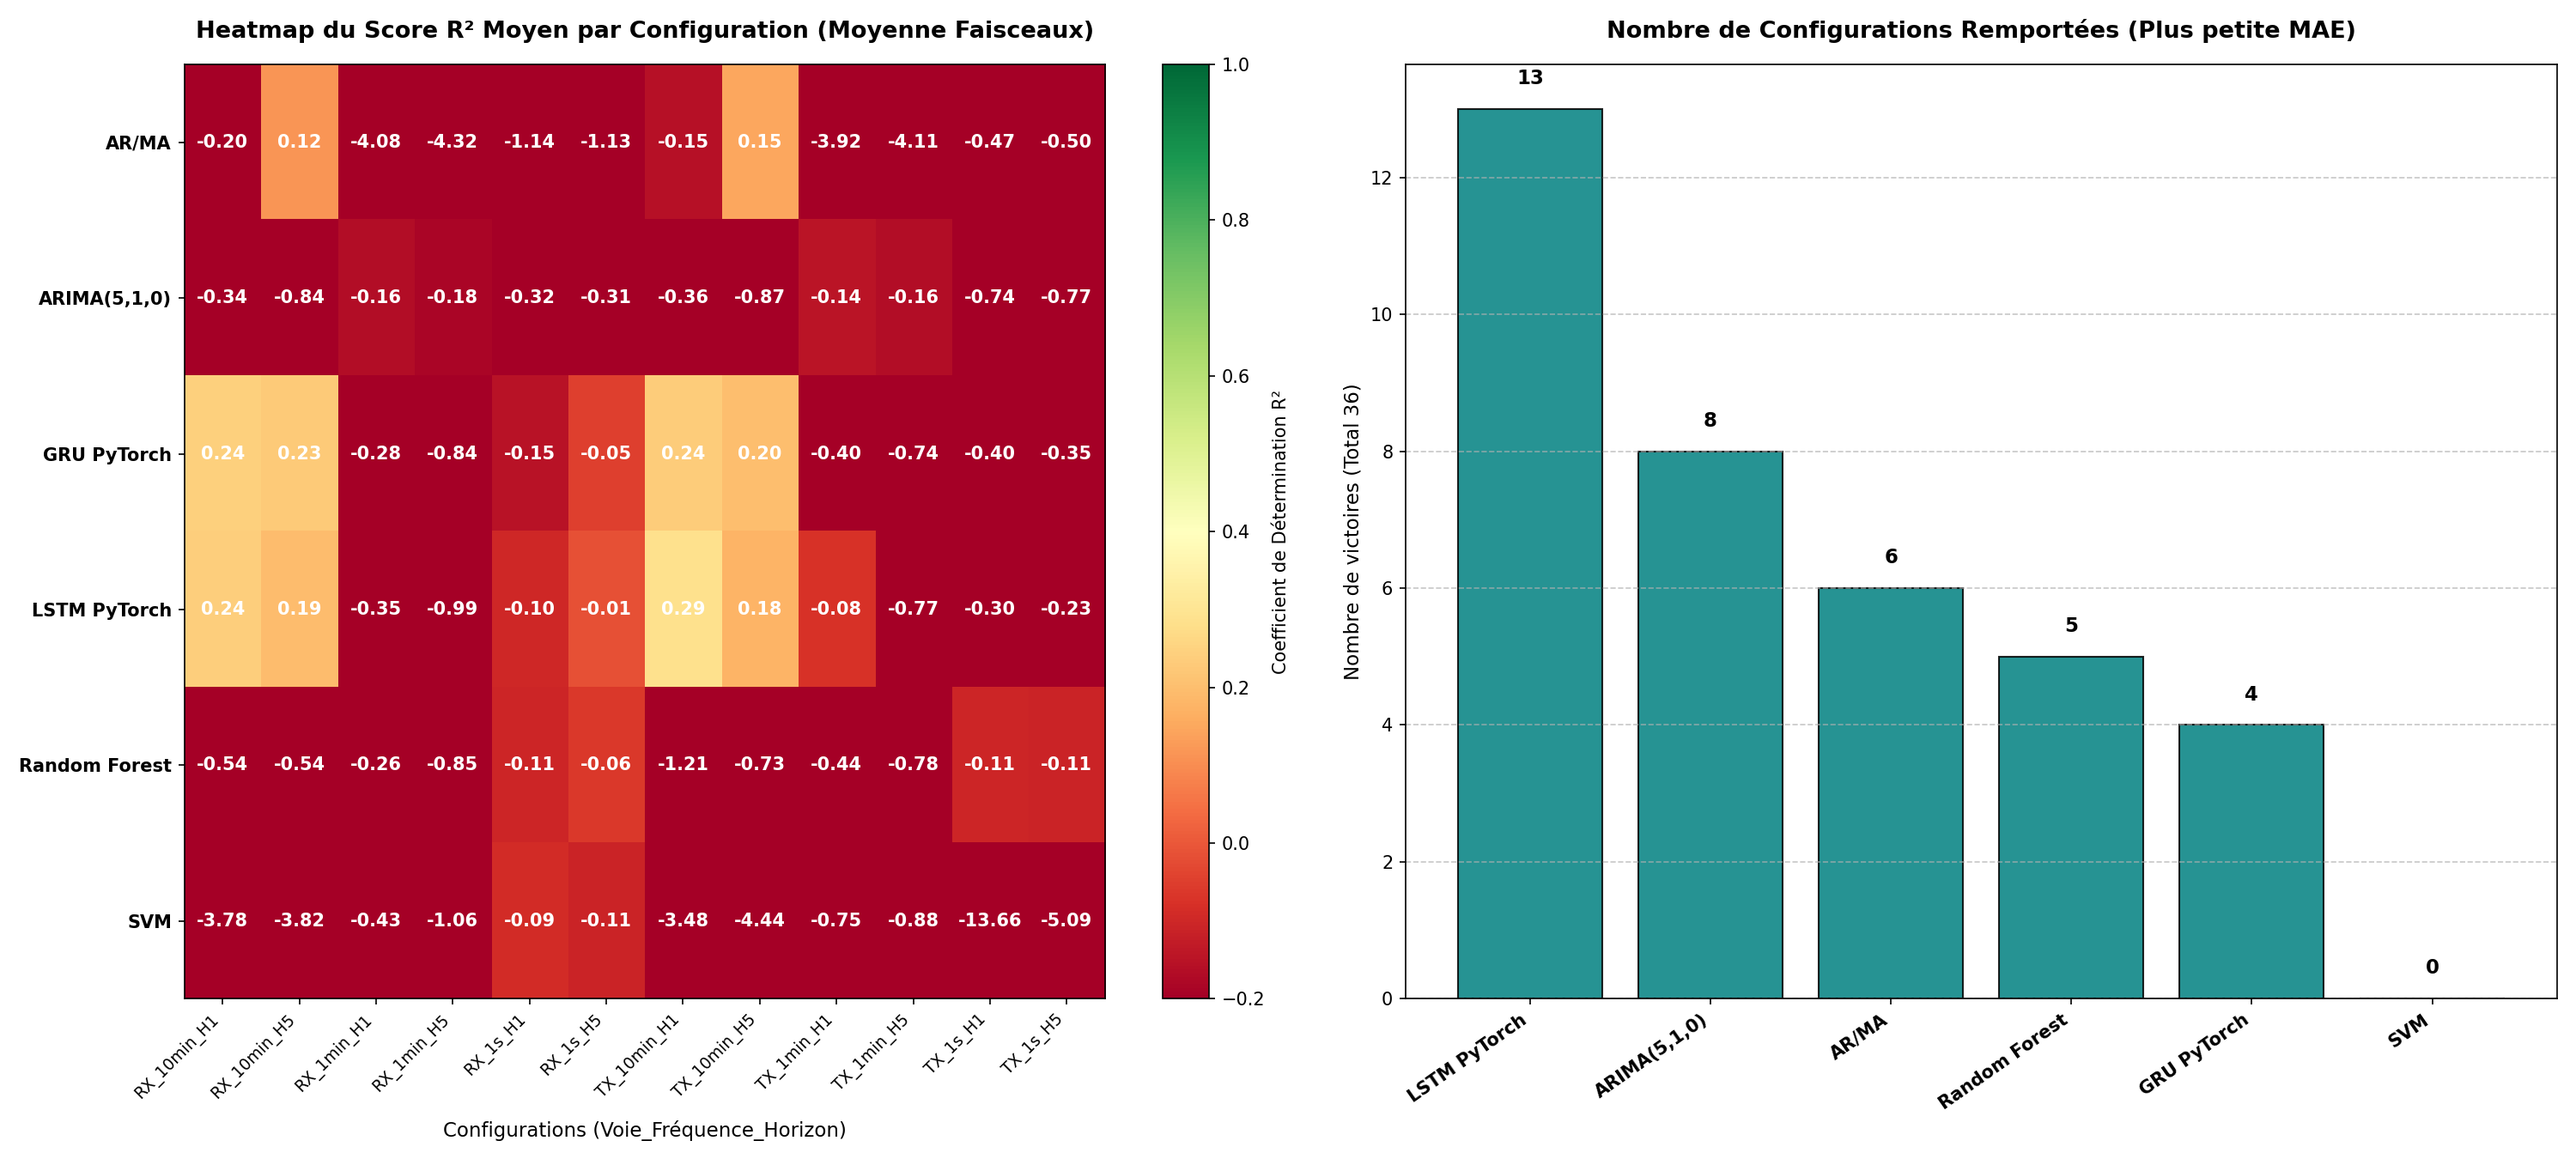
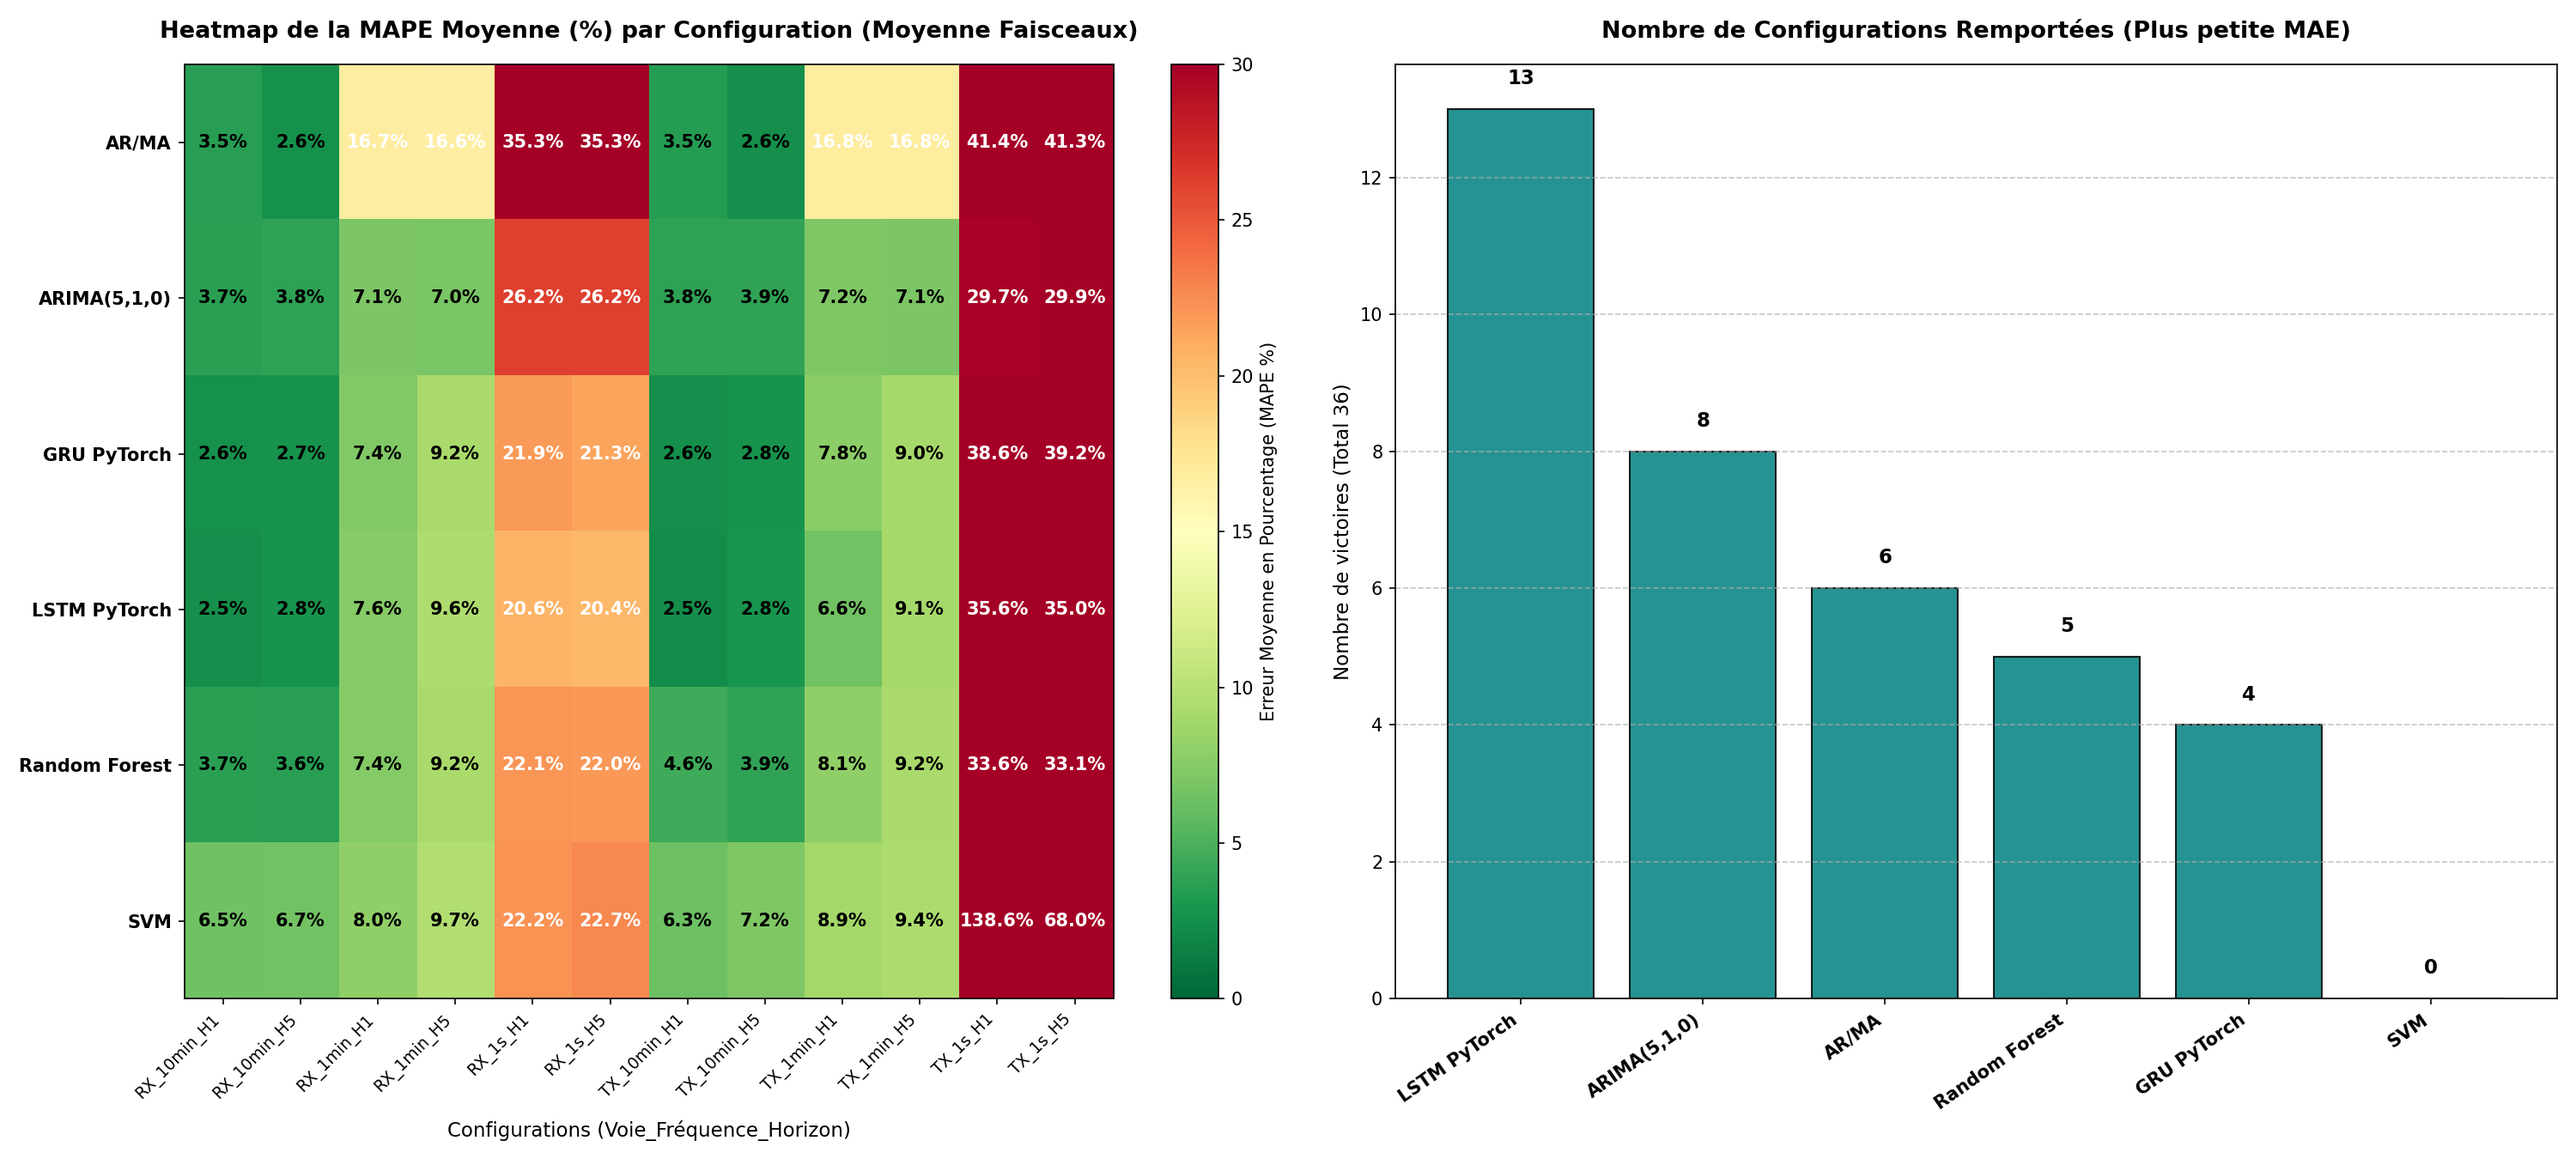
feat: affichage de la heatmap de la MAPE (%) dans le benchmark exhaustif

diff --git a/code/plot_utils.py b/code/plot_utils.py
@@ -398,7 +398,7 @@ def plot_exhaustive_benchmark(results_list: list):
         best_row = g_df.loc[g_df['mae'].idxmin()]
         win_counts[best_row['model_name']] += 1
         
-    # 2. Préparation de la Heatmap des R² (moyennée sur les faisceaux pour rester lisible)
+    # 2. Préparation de la Heatmap de la MAPE (moyennée sur les faisceaux pour rester lisible)
     df['link_short'] = df['link_type'].apply(lambda x: 'TX' if x == 'forward' else 'RX')
     df['config_group'] = df['link_short'] + '_' + df['freq'] + '_H' + df['horizon'].astype(str)
     
@@ -410,16 +410,17 @@ def plot_exhaustive_benchmark(results_list: list):
         for j, cg in enumerate(config_groups):
             subset = df[(df['model_name'] == m) & (df['config_group'] == cg)]
             if not subset.empty:
-                heatmap_data[i, j] = subset['r2'].mean()
+                # MAPE en pourcentage (%)
+                heatmap_data[i, j] = subset['mape'].mean() * 100
             else:
                 heatmap_data[i, j] = np.nan
                 
     # Tracé
     fig, (ax1, ax2) = plt.subplots(1, 2, figsize=(20, 9))
     
-    # 2.1 Heatmap R²
-    im = ax1.imshow(heatmap_data, cmap='RdYlGn', aspect='auto', vmin=-0.2, vmax=1.0)
-    ax1.set_title("Heatmap du Score R² Moyen par Configuration (Moyenne Faisceaux)", fontsize=13, fontweight='bold', pad=15)
+    # 2.1 Heatmap MAPE (Plus bas est mieux, donc colormap inversée 'RdYlGn_r')
+    im = ax1.imshow(heatmap_data, cmap='RdYlGn_r', aspect='auto', vmin=0.0, vmax=30.0)
+    ax1.set_title("Heatmap de la MAPE Moyenne (%) par Configuration (Moyenne Faisceaux)", fontsize=13, fontweight='bold', pad=15)
     ax1.set_yticks(range(len(models)))
     ax1.set_yticklabels(models, fontsize=10, fontweight='bold')
     ax1.set_xticks(range(len(config_groups)))
@@ -431,10 +432,10 @@ def plot_exhaustive_benchmark(results_list: list):
         for j in range(len(config_groups)):
             val = heatmap_data[i, j]
             if not np.isnan(val):
-                text_color = "black" if val > 0.4 else "white"
-                ax1.text(j, i, f"{val:.2f}", ha="center", va="center", color=text_color, fontsize=10, fontweight='bold')
+                text_color = "black" if val < 15.0 else "white"
+                ax1.text(j, i, f"{val:.1f}%", ha="center", va="center", color=text_color, fontsize=10, fontweight='bold')
                 
-    fig.colorbar(im, ax=ax1, label="Coefficient de Détermination R²")
+    fig.colorbar(im, ax=ax1, label="Erreur Moyenne en Pourcentage (MAPE %)")
     
     # 2.2 Win Count Barplot
     model_names = list(win_counts.keys())
